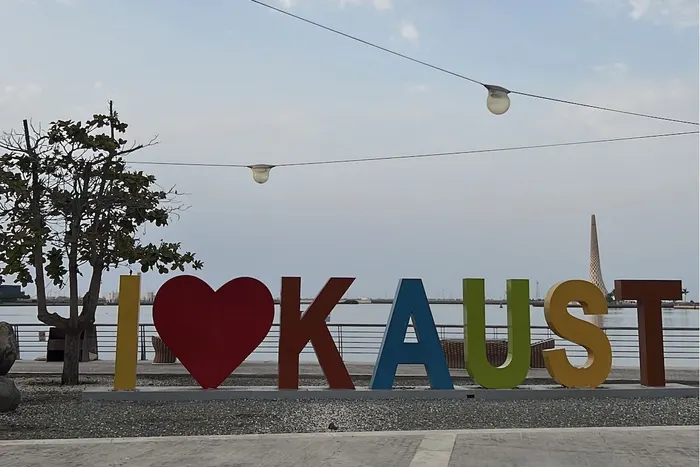
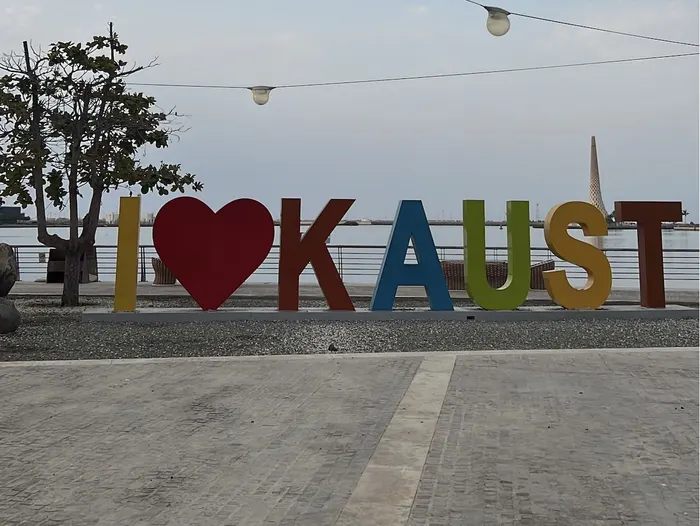
Keep the whole I love KAUST sign in frame
Re-export kaust-3 at the photo's full width (a 1206x906 band), so the
4:3 slots never crop its sides and the short-phone 2:1 crop only trims
sky and ground.

Claude-Session: https://claude.ai/code/session_01QDL11CQFzocTXF2m9bJjWR

diff --git a/src/pages/Home.jsx b/src/pages/Home.jsx
@@ -140,7 +140,7 @@ const events = [
     images: [
       { src: '/events/kaust-1.webp', srcSet: '/events/kaust-1-700.webp 700w, /events/kaust-1.webp 1400w', w: 1400, h: 936, alt: 'A large auditorium full of seated attendees, with the KAUST Academy logo on the wall' },
       { src: '/events/kaust-2.webp', srcSet: '/events/kaust-2-700.webp 700w, /events/kaust-2.webp 1200w', w: 1200, h: 1600, alt: 'Presenting the poster at the KAUST Academy showcase' },
-      { src: '/events/kaust-3.webp', srcSet: '/events/kaust-3-700.webp 700w, /events/kaust-3.webp 1206w', w: 1206, h: 804, alt: 'A colourful "I love KAUST" sign on a waterfront promenade' },
+      { src: '/events/kaust-3.webp', srcSet: '/events/kaust-3-700.webp 700w, /events/kaust-3.webp 1206w', w: 1206, h: 906, alt: 'A colourful "I love KAUST" sign on a waterfront promenade' },
     ],
   },
   {
